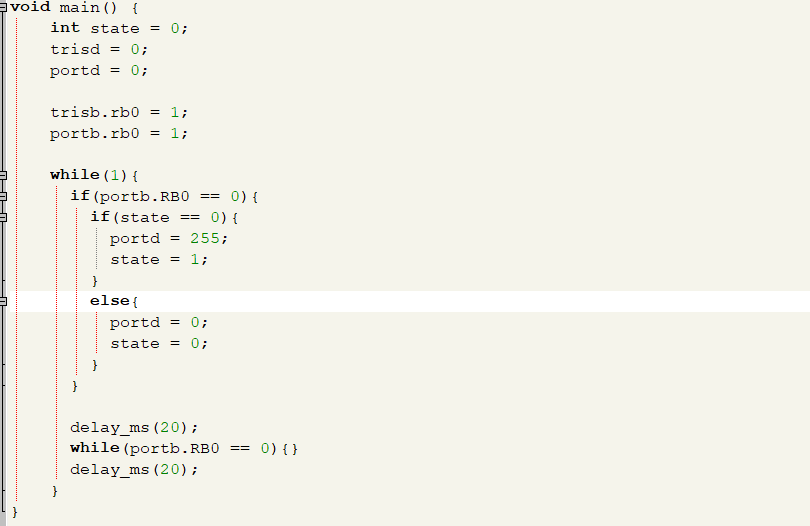
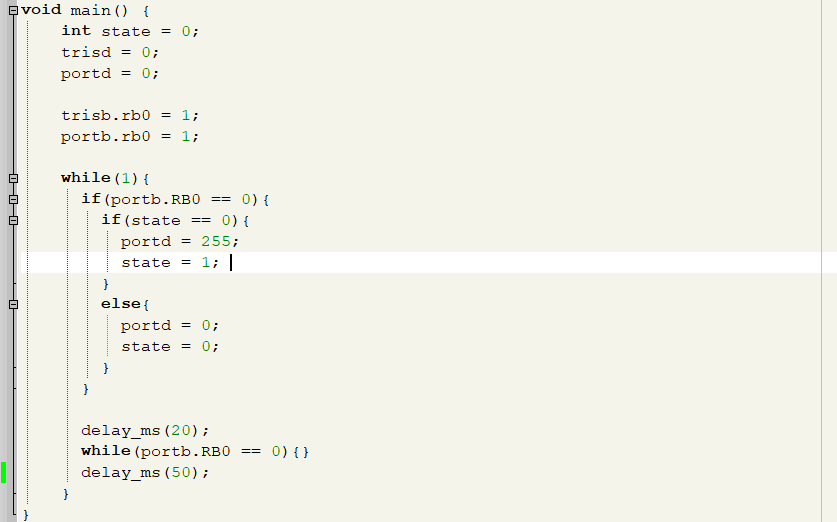
Fix exemplo 5

diff --git a/exemplo5/Exemplo_5.c b/exemplo5/Exemplo_5.c
@@ -20,6 +20,6 @@ void main() {
       
       delay_ms(20);
       while(portb.RB0 == 0){}
-      delay_ms(20);
+      delay_ms(50);
     }
 }
